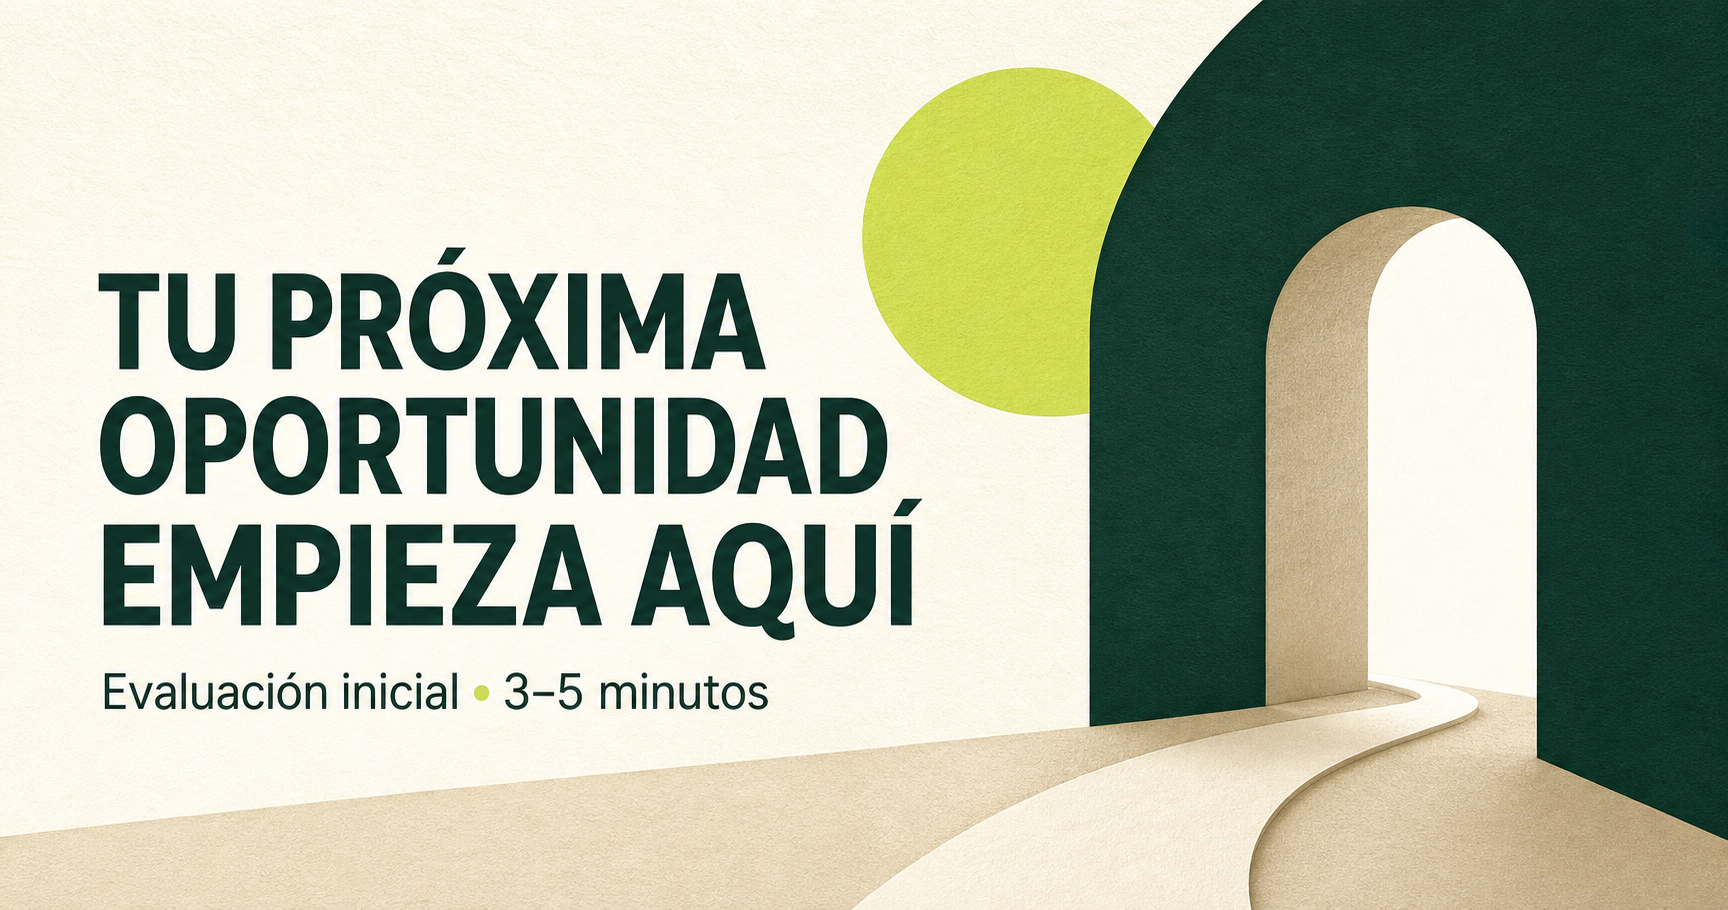
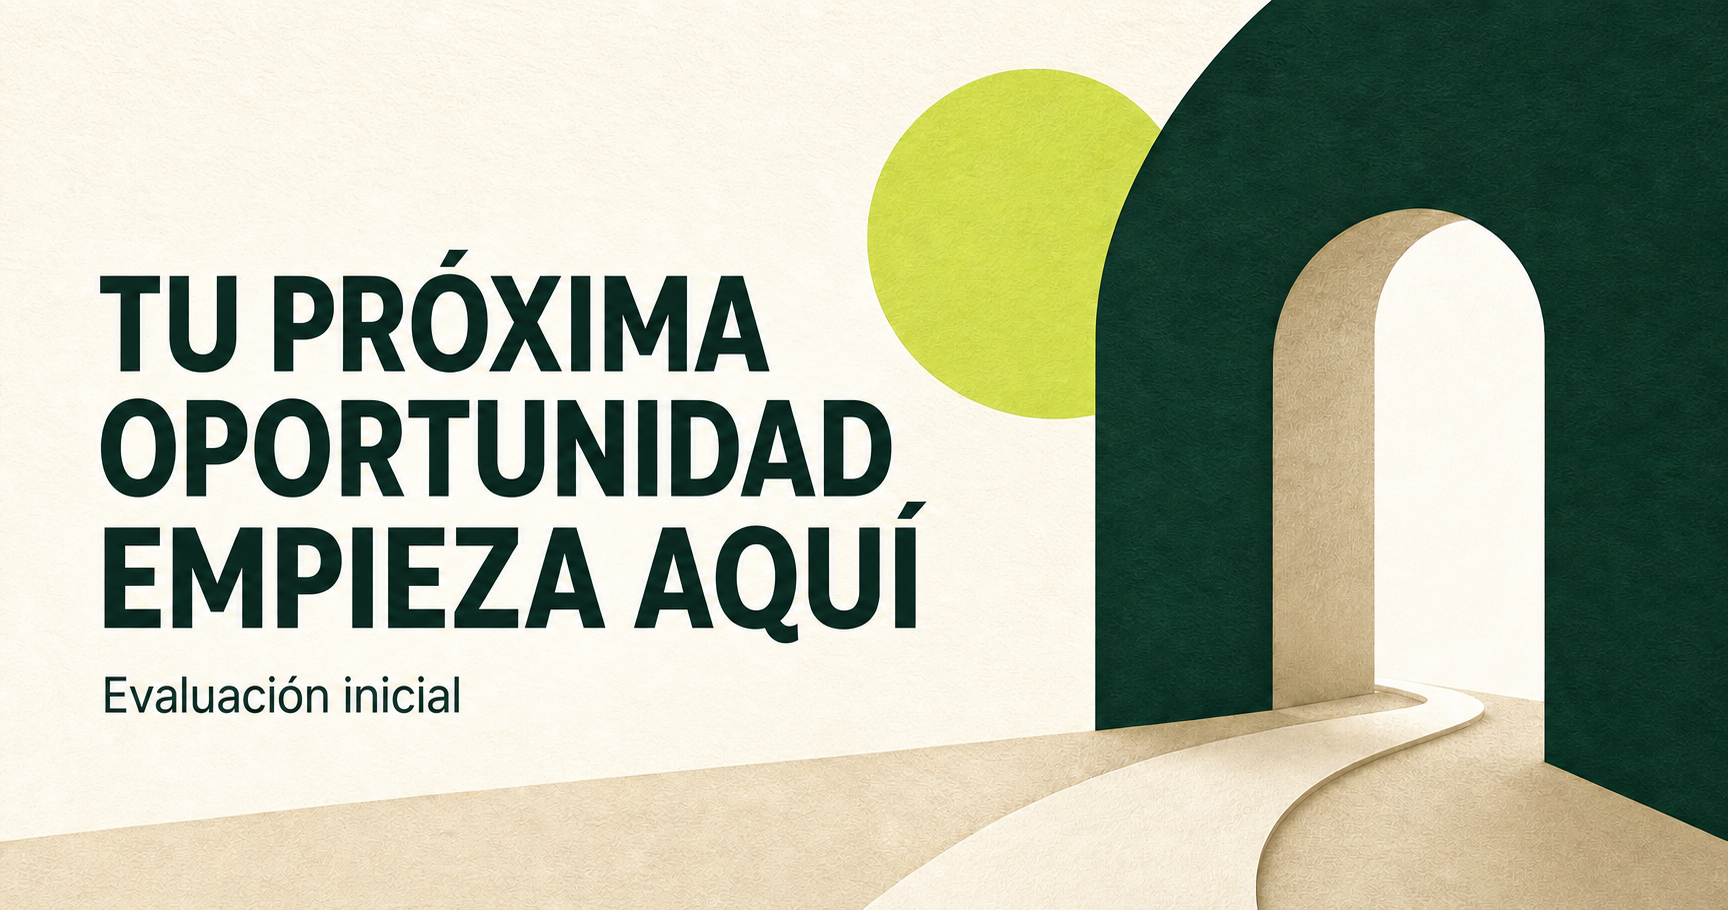
Remove time estimate

diff --git a/app/page.tsx b/app/page.tsx
@@ -202,7 +202,6 @@ export default function Home() {
             </p>
           </div>
           <div className="facts">
-            <div><strong>3–5</strong><span>minutos</span></div>
             <div><strong>10</strong><span>preguntas</span></div>
             <div><strong>100%</strong><span>desde tu celular</span></div>
           </div>

diff --git a/app/globals.css b/app/globals.css
@@ -109,7 +109,7 @@ h1 {
 
 .facts {
   display: grid;
-  grid-template-columns: repeat(3, 1fr);
+  grid-template-columns: repeat(2, 1fr);
   margin-bottom: 34px;
   border-block: 1px solid var(--line);
 }
